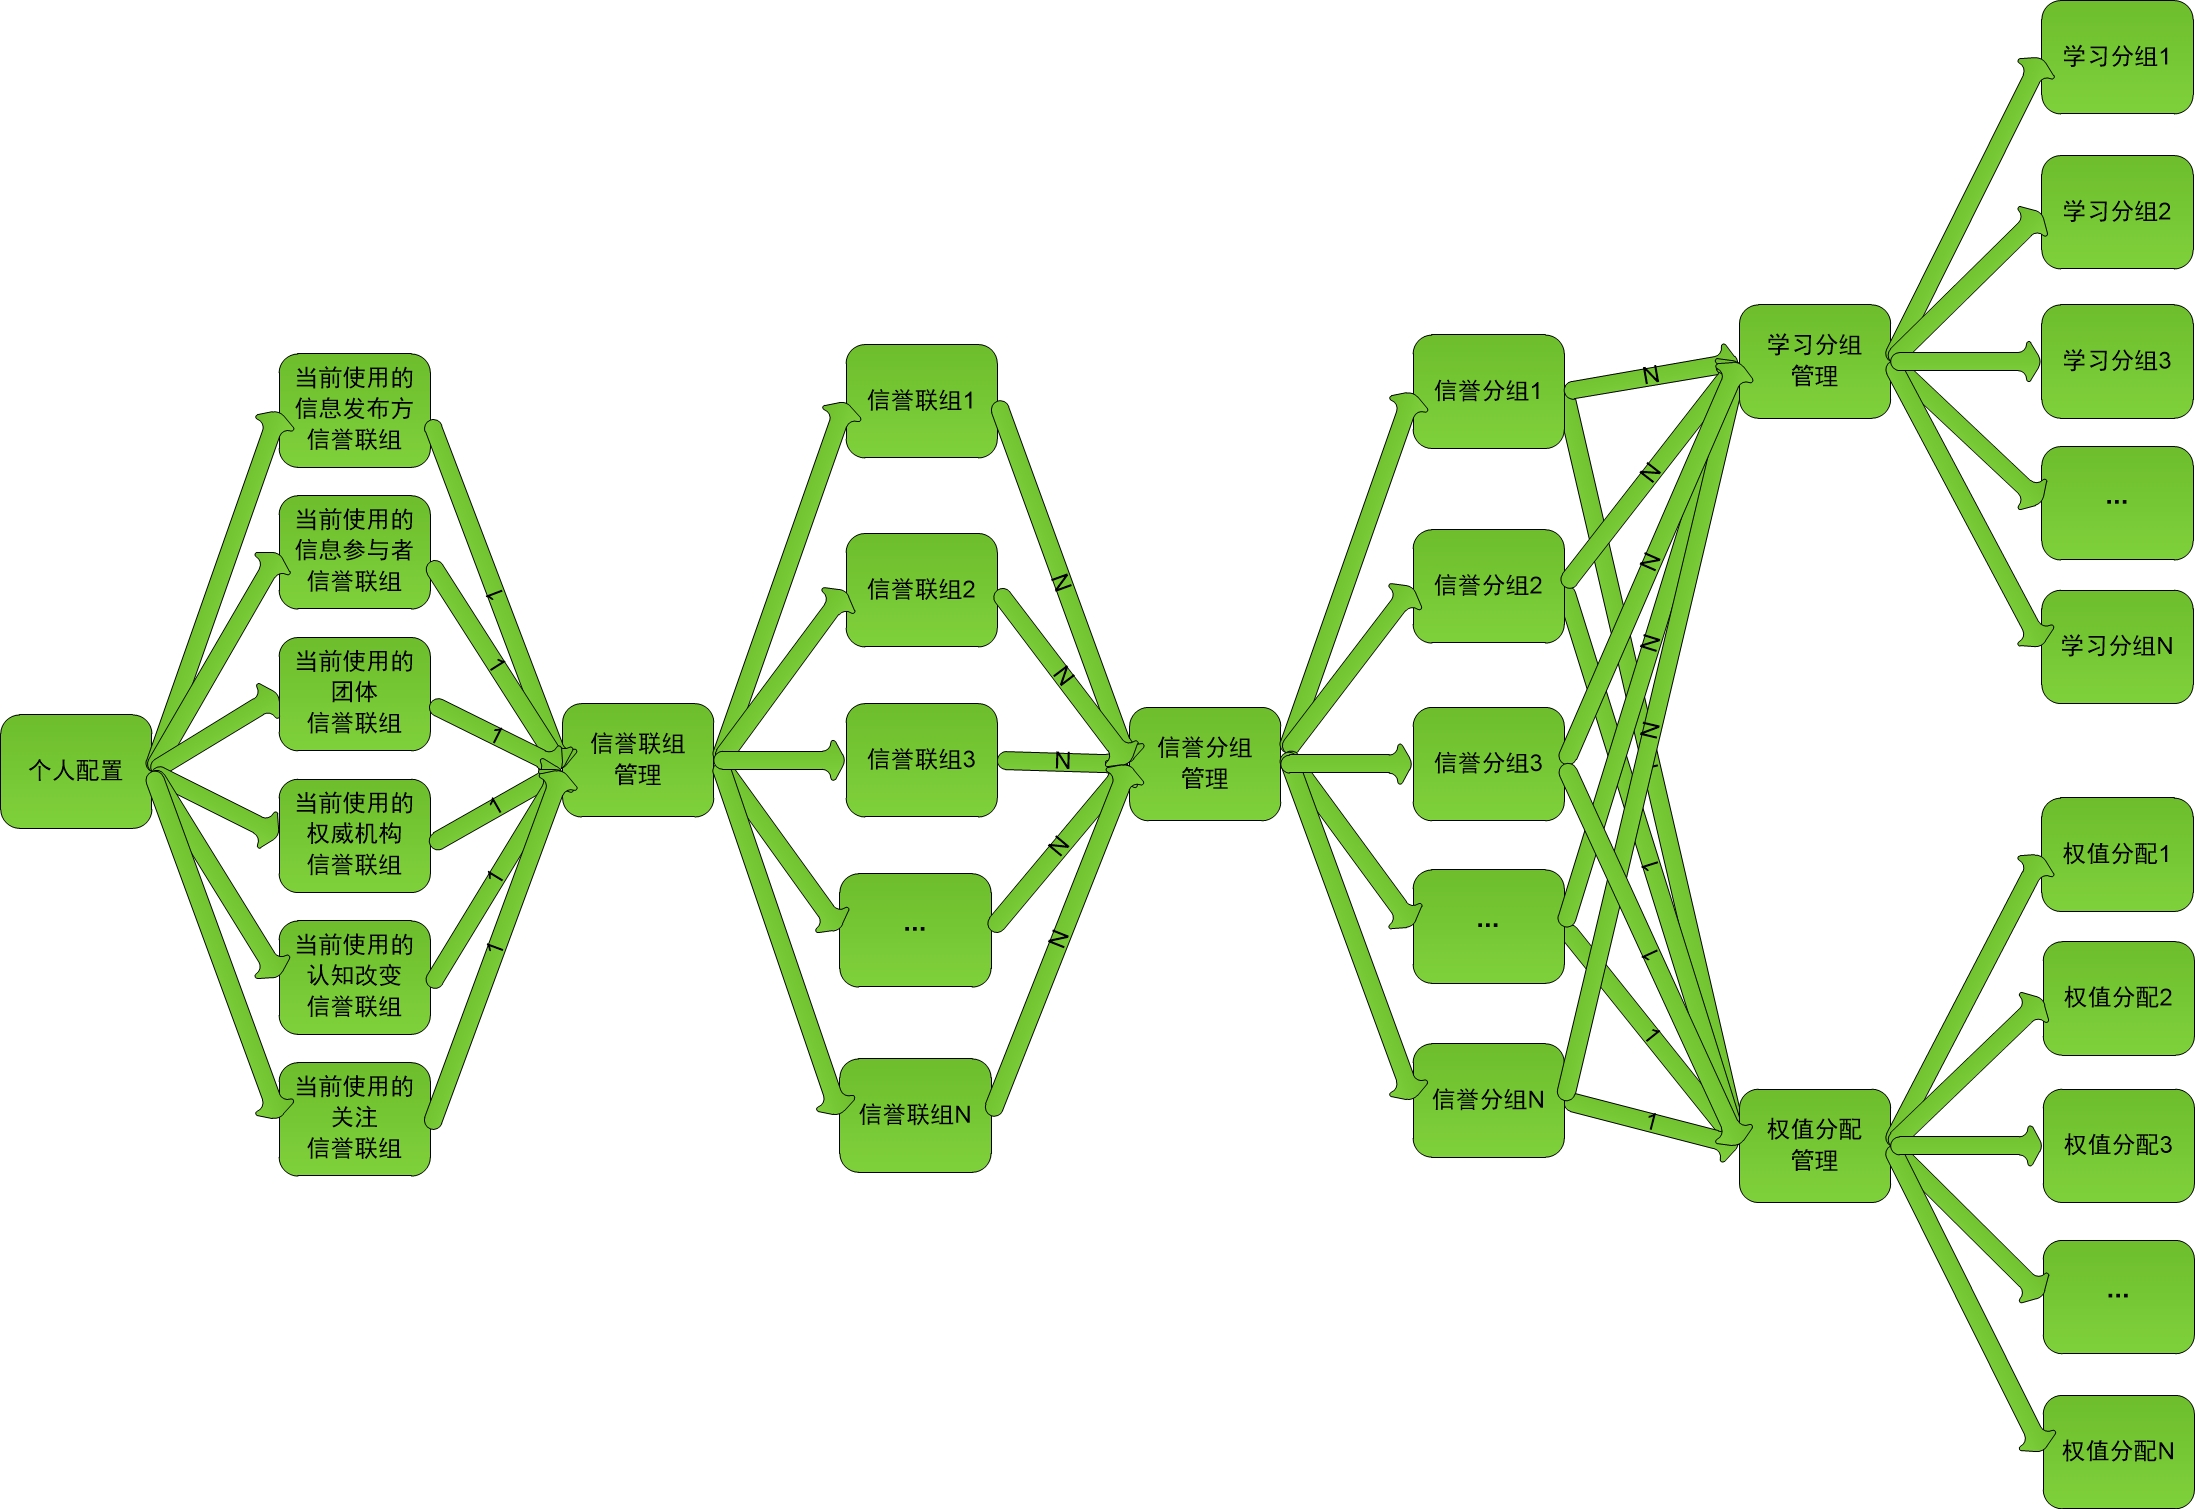
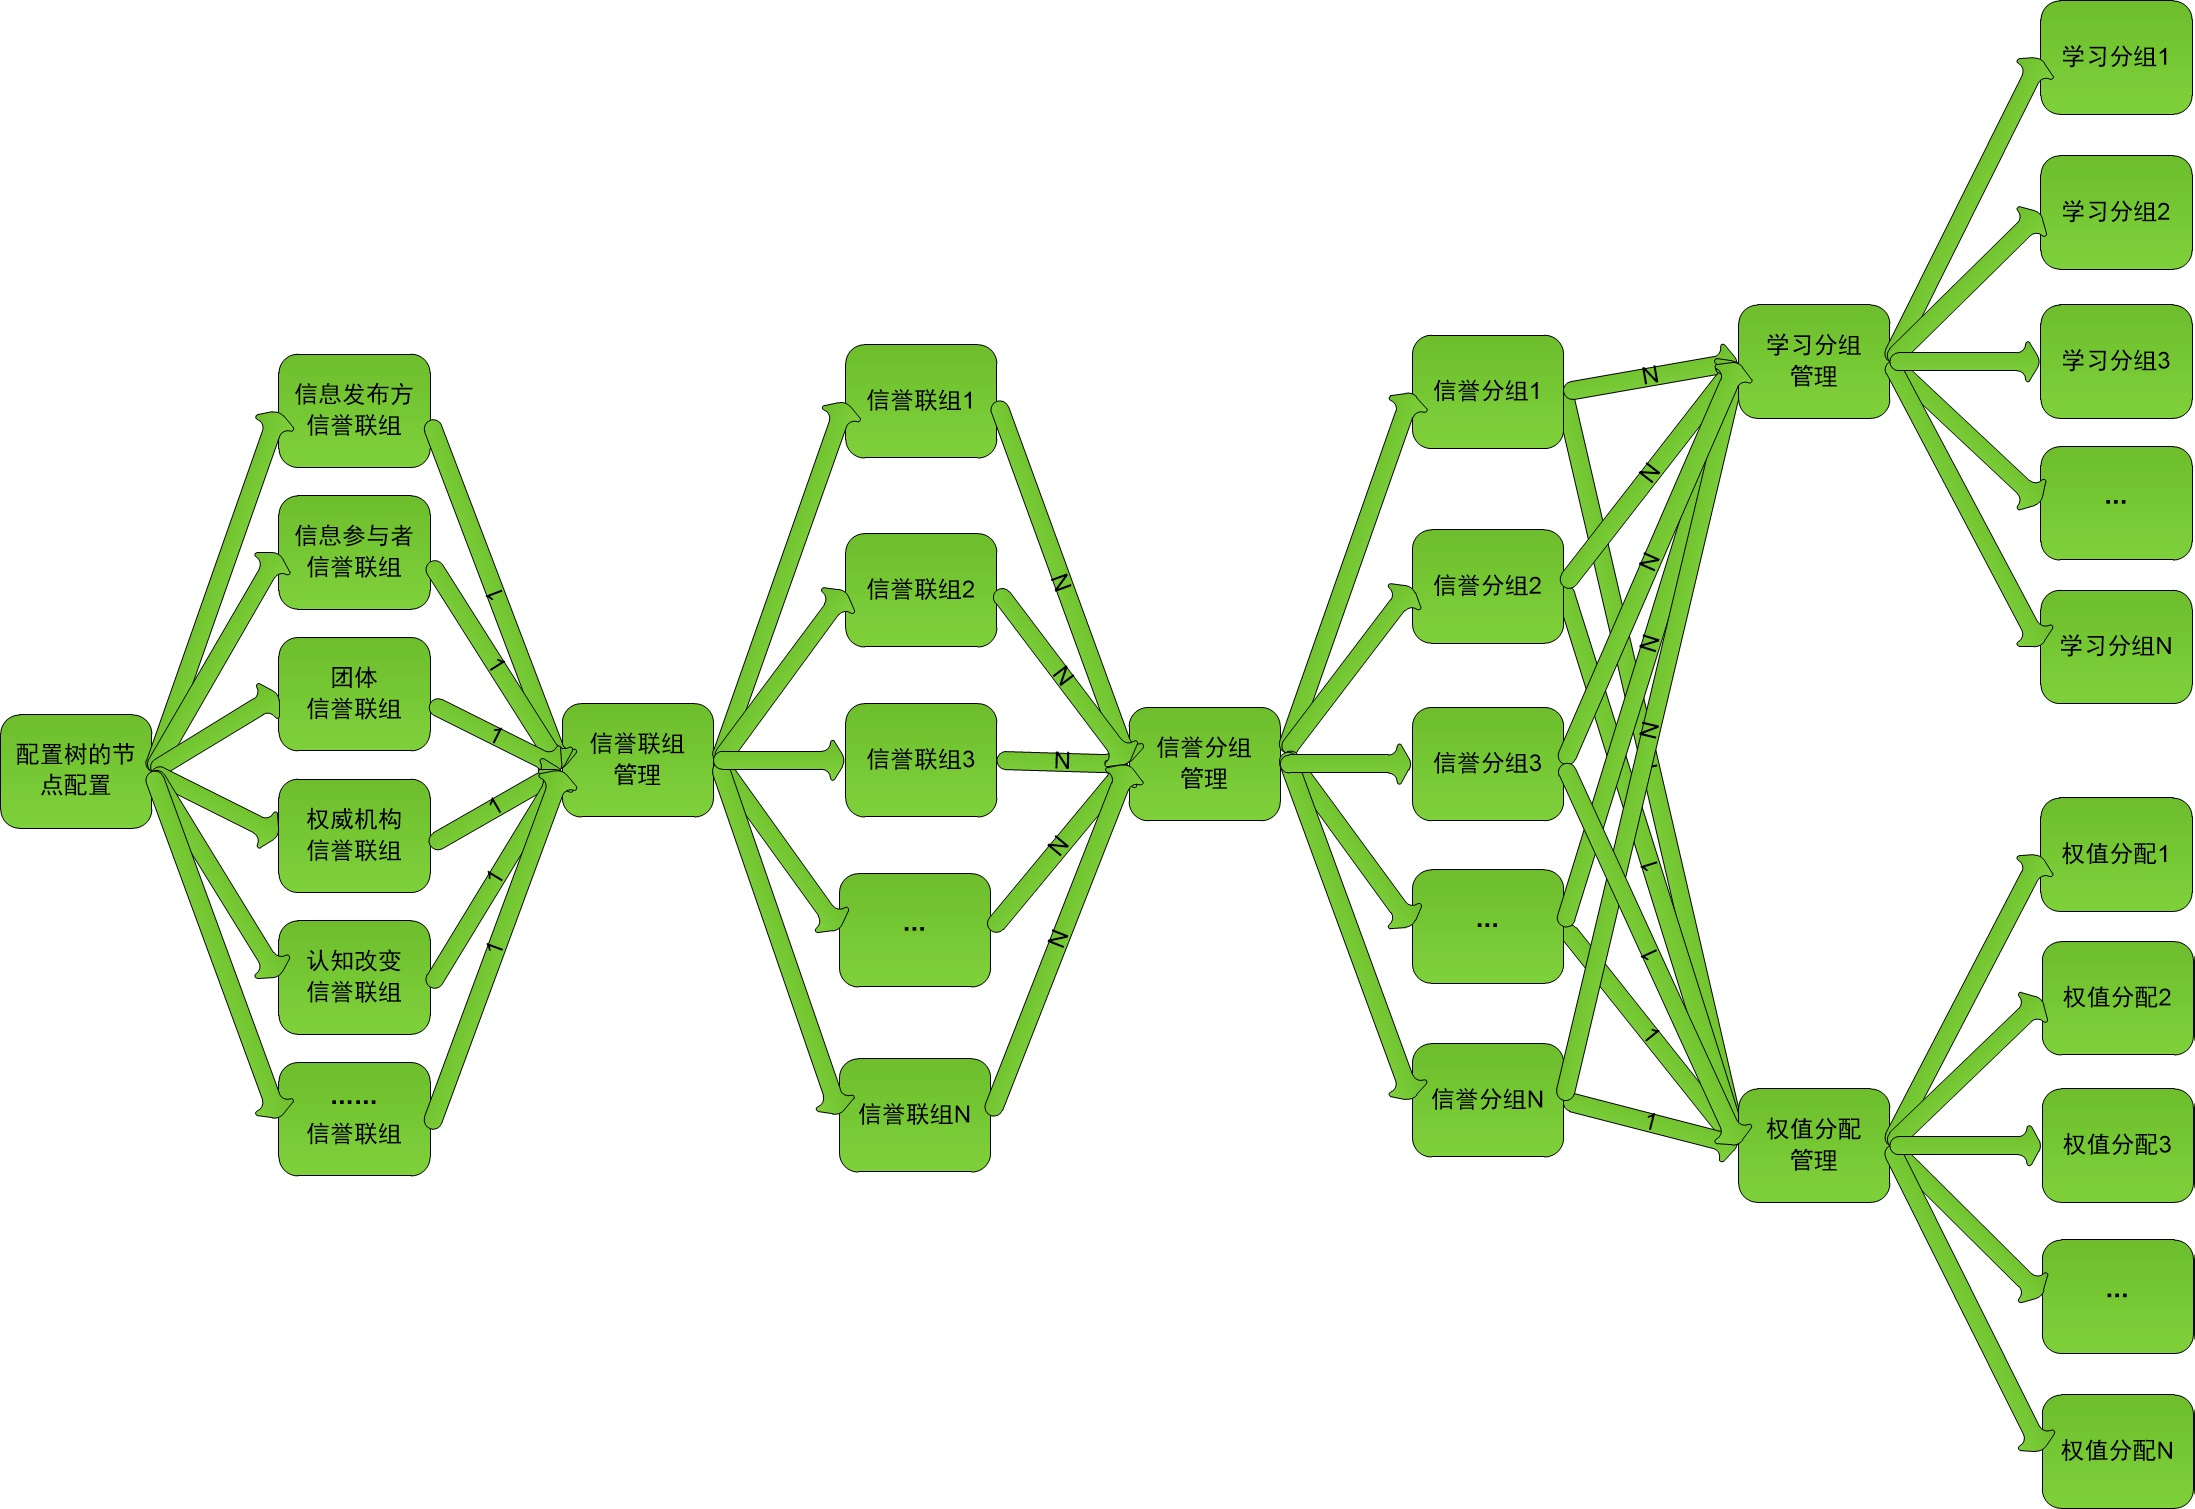
201809241510

diff --git a/book5_chs.md b/book5_chs.md
@@ -1,4 +1,4 @@
-人工学习之系统功能实现要点
+人工学习之系统功能实现要点
 ==================================================================
 ***在本章节适合人工学习系统实现者阅读，请结合[《人工学习之互联网广播式信息传播的信息审判者》（加长版）](.)进行阅读***
 
@@ -8,14 +8,15 @@
 +  有多个信誉级别学习分组，一个学习分组表示一种学习方式，比如自己的信任程度不同的多个学习分组和从别人处学习过来的学习分组  
 +  根据信任程度不同可建立多个权值分配，包含信誉级别对应的信誉权值，推荐级别对应的权值系数，评论级别对应的权值系数，权值大小=信誉级别权值\*级别权值系数  
 +  有多个信誉分组，包含多个有优先级权值的学习分组与其对应的权值分配  
-+  有多个信誉联组，包含多个有优先级权值的信誉分组，一个信誉联组即是一个视角判断信息是否有价值及价值的高低，根据信息提供者类型限定信誉联组的使用范围  
-+  可随时切换到不同的信誉联组，以及可用多个信誉联组以不同视角分析查看信息的价值高低  
-+  可快速单个或者多个启用/禁用学习分组，信誉分组  
++  有多个信誉联组，包含多个有优先级权值的信誉分组，一个信誉联组即是一个领域视角判断信息是否有价值及价值的高低，可根据信息提供者类型限定信誉联组的使用范围  
++  一个固定和多个可切换的配置树，各领域及其子孙领域都可组成树状结构，每个节点都可有相对应的信誉联组，当未设置时也可允许是否向父祖级获取对应的信誉联组配置，可随时切换到不同的配置树，以及可同时用多个配置树以不同视角分析查看信息的价值高低，优先从固定配置树获取信誉联组    
++  可快速单个或者多个启用/禁用信誉联组，学习分组，信誉分组  
 +  如前面所述的多层次信息分组，有所有信息的分组，有为信息未命中分组的信息分组，并支持一键多层次信息分组跳转，多层次信息分组视图显示与分享  
 +  有多种信息评论显示方式，比如公开，朋友，信息评论者，信息发布方，后台管理者，仅自己，信誉级别，按加密授权等或者多种组合  
 +  自定义关键字组过滤功能，避免某些信息污染眼睛，自定义关键字组过滤分组下再分组需要反过滤功能  
 +  自定义关键字组分组功能  
-+  有学习功能，包括信誉级别，权值分配，信誉分组，信誉联组，自定义关键字组等信息的学习，以及学习更新提醒功能  
++  关键字有多个词语组合才生效的功能，支持通配符和正则表达式  
++  有学习功能，包括配置树，信誉级别，权值分配，信誉分组，信誉联组，自定义关键字组等信息的学习，以及学习更新提醒功能  
 +  有学习的同步功能，方便亲戚朋友之间进行同步学习  
 +  关注学习功能，关注信息参与者针对某个或者某些信息的某些评论级别，根据其评论级别一键批量学习设置其信誉级别  
 +  增加某类信息的属性，比如可信度，认可度，厌恶度，难易度等  
@@ -33,8 +34,9 @@
 +  设立认知改变区（推荐级别与评论级别的改变，也通过设置信誉联组的方式），因对事物的认知是不断改变的，认知改变区反应了信息提供者对于信息的最新的认知，认知改变的历史可见性  
 
 
-![个人配置结构图](images/S.jpg "个人配置结构图")  
-综合考虑从信誉联组中获取信息提供者的信誉权值数据：  
+![配置树的节点配置结构图](images/S.jpg "配置树的节点配置结构图")  
+根据信息所在的领域，从配置树对应的节点获取其对应的信誉联组，综合考虑从信誉联组中获取信息提供者的信誉权值数据：
+
 +   信誉联组中信誉分组的优先级  
 +   信誉分组中学习分组的优先级  
 +   学习分组中信誉级别大小，属性，和时间段的优先级  

diff --git a/book6_chs.md b/book6_chs.md
@@ -4,7 +4,7 @@
  
 一.草医
 ------------------------------------------------------------------   
-为了不与某些概念冲突和有个响亮的名字，用新瓶装一下“久病成良医”这个旧酒。草医是一个采用互助的方式致力于收集民间可用的辨病方法与药方，使用现代医学的科学试验证明后去伪存真，汰劣留良，并去其糟粕，取其精华提炼整理为多数人所能理解的现代医学的辨病方法与药方的医学。  
+为了不与某些概念冲突和有个响亮的名字，用新瓶装一下“久病成良医”这个旧酒。草医是采用互助的方式致力于收集民间可用的辨病方法与药方，使用现代医学的科学试验证明后去伪存真，汰劣留良，并去其糟粕，取其精华提炼整理为多数人所能理解的现代医学的辨病方法与药方的医学。  
 
 ### 1)红刺尖治疗皮肤炭疽的化脓性肿胀性皮肤病  
 推荐等级：★★★  
@@ -27,9 +27,9 @@
 [七小叶的红刺尖5](images/CY_MY_0x00000001_5.jpg "七小叶的红刺尖5")  
 [七小叶的红刺尖6](images/CY_MY_0x00000001_6.jpg "七小叶的红刺尖6")  
 
-### 2)传优/无鱼速效治疗胃疼痛胃溃疡  
+### 2)吴茱萸速效治疗胃疼痛胃溃疡  
 推荐等级：★★★  
-关键字：传优 无鱼 胃疼 胃痛 胃溃疡 胃疼痛  
+关键字：吴茱萸 传优 无鱼 胃疼 胃痛 胃溃疡 胃疼痛  
 草医编号：CY_MY_0x00000002  
 #### 2.1)*病例个数: 1名成年男子*  
 病名：胃溃疡  
@@ -54,7 +54,7 @@
 用法及用量：详见我的论述  
 治疗效果：无效果  
 
-我的论述：此药为药方提供者因得胃病后经熟人介绍所得，此药当地叫传优（谐音），或者除忧（谐音），或者无鱼（谐音），听说大药店似乎有售（未确认），其植株会散发臭气，有大绿色叶子，印象中似乎有筷子头左右大小的青绿色果实，成熟会变微红脱落，果实有点类似剥开皮的桔子被多条线分为多小瓣。为便于收藏，一般都是晾干了收藏。睡前取5粒左右嚼碎后吞服，会略有苦感，第二天即无胃病痛感也无需再次吞服。  
+我的论述：此药为药方提供者因得胃病后经熟人介绍所得，此药学名吴茱萸，当地叫传优（谐音），或者除忧（谐音），或者无鱼（谐音），中药店有售，其植株会散发臭气，有大绿色叶子，印象中似乎有筷子头左右大小的青绿色果实，成熟会变微红脱落，果实有点类似剥开皮的桔子被多条线分为多小瓣。为便于收藏，一般都是晾干了收藏。睡前取5粒左右嚼碎后吞服，会略有苦感，第二天即无胃病痛感也无需再次吞服。  
 
 [传优/除忧/无鱼的果实1](images/CY_MY_0x00000002_1.jpg "传优/除忧/无鱼的果实1")  
 [传优/除忧/无鱼的叶子2](images/CY_MY_0x00000002_2.jpg "传优/除忧/无鱼的叶子2")  

diff --git a/book3_chs.md b/book3_chs.md
@@ -1,4 +1,4 @@
-人工学习之互联网广播式信息传播的信息审判者（精简版）  
+人工学习之互联网广播式信息传播的信息审判者（精简版）  
 ==================================================================
 
 1.互联网信息传播的信息审判
@@ -11,7 +11,7 @@
 
 恶棍因为不断作恶，造就自己极差的信誉，所以不管再向谁重复诉说多少次，大家都不会再相信他提供的信息。造成现在互联网大功率高频率垃圾信息满天飞的主要原因：其到处不断作恶，虽然已是极差的信誉，但是仍然可以浑水摸鱼，重复多次欺诈作恶后仍能从中获利，我们并未将信誉机制的信息审判模型引入其中。  
 
-在互联网中，可查看信息提供者传播的历史信息，根据经验为其设置相应的信誉权值。信誉权值越高说明其提供的信息就越有价值，我们就可以奖励回报他与反馈提高其信誉权值。信誉权值越低说明其提供的信息就越没有价值，我们就可以隔离惩罚他与反馈降低其信誉权值。  
+在互联网中，可查看信息提供者传播的历史信息，根据经验为其设置相应的信誉权值。信誉权值越高说明其提供的信息就越有价值，我们就可以奖励回报他与反馈适时提高其信誉权值。信誉权值越低说明其提供的信息就越没有价值，我们就可以隔离惩罚他与反馈适时降低其信誉权值。
 
 我们将非常乐意与高信誉权值者达成合作，因其以自己的知识与经验，不光完成了信息是否垃圾的审判，而且还完成了信息内容的真伪审判。我们会拒绝并惩罚那些低信誉权值者。  
  

diff --git a/book4_chs.md b/book4_chs.md
@@ -30,7 +30,7 @@
 
 恶棍因为不断作恶，造就自己极差的信誉，所以不管再向谁重复诉说多少次，大家都不会再相信他提供的信息。造成现在互联网大功率高频率垃圾信息满天飞的主要原因：其到处不断作恶，虽然已是极差的信誉，但是仍然可以浑水摸鱼，重复多次欺诈作恶后仍能从中获利，我们并未将信誉机制的信息审判模型引入其中。  
 
-在互联网中，可查看信息提供者传播的历史信息，根据经验为其设置相应的信誉权值。信誉权值越高说明其提供的信息就越有价值，我们就可以奖励回报他与反馈提高其信誉权值。信誉权值越低说明其提供的信息就越没有价值，我们就可以隔离惩罚他与反馈降低其信誉权值。  
+在互联网中，可查看信息提供者传播的历史信息，根据经验为其设置相应的信誉权值。信誉权值越高说明其提供的信息就越有价值，我们就可以奖励回报他与反馈适时提高其信誉权值。信誉权值越低说明其提供的信息就越没有价值，我们就可以隔离惩罚他与反馈适时降低其信誉权值。  
 
 我们将非常乐意与高信誉权值者达成合作，因其以自己的知识与经验，不光完成了信息是否垃圾的审判，而且还完成了信息内容的真伪审判。我们会拒绝并惩罚那些低信誉权值者。  
 

diff --git a/README.md b/README.md
@@ -1,5 +1,5 @@
-简体中文版
----------  
+人工学习
+==================================================================
 + ## [《合作的进化》改编的游戏《信任的进化》](https://www.sekai.co/trust/)
 + ## [《我们人类会灭亡吗与土人的2018即将出世面世宣言》](book1_chs.md)
 + ## [《我，XXX，速速打钱！！！》](book2_chs.md)
@@ -8,17 +8,4 @@
 + ## [《人工学习之系统功能实现要点》](book5_chs.md)
 + ## [《人工学习之我要传播的信息》](book6_chs.md)
 
-<br/>
-<br/>
 
-繁體中文版
----------  
-+ ## [《合作的進化》改編的遊戲《信任的進化》](https://www.sekai.co/trust/)
-+ ## [《我們人類會滅亡嗎與土人的2018即將出世面世宣言》](book1_cht.md)
-+ ## [《我，XXX，速速打錢！！！》](book2_cht.md)
-+ ## [《人工學習之互聯網廣播式信息傳播的資訊審判者》（精簡版）](book3_cht.md)
-+ ## [《人工學習之互聯網廣播式信息傳播的資訊審判者》（加長版）](book4_cht.md)
-+ ## [《人工學習之系統功能實現要點》](book5_cht.md)
-+ ## [《人工學習之我要傳播的信息》](book6_cht.md)
-
-***WORD2013简体转繁体有些问题，以简体版为准***
